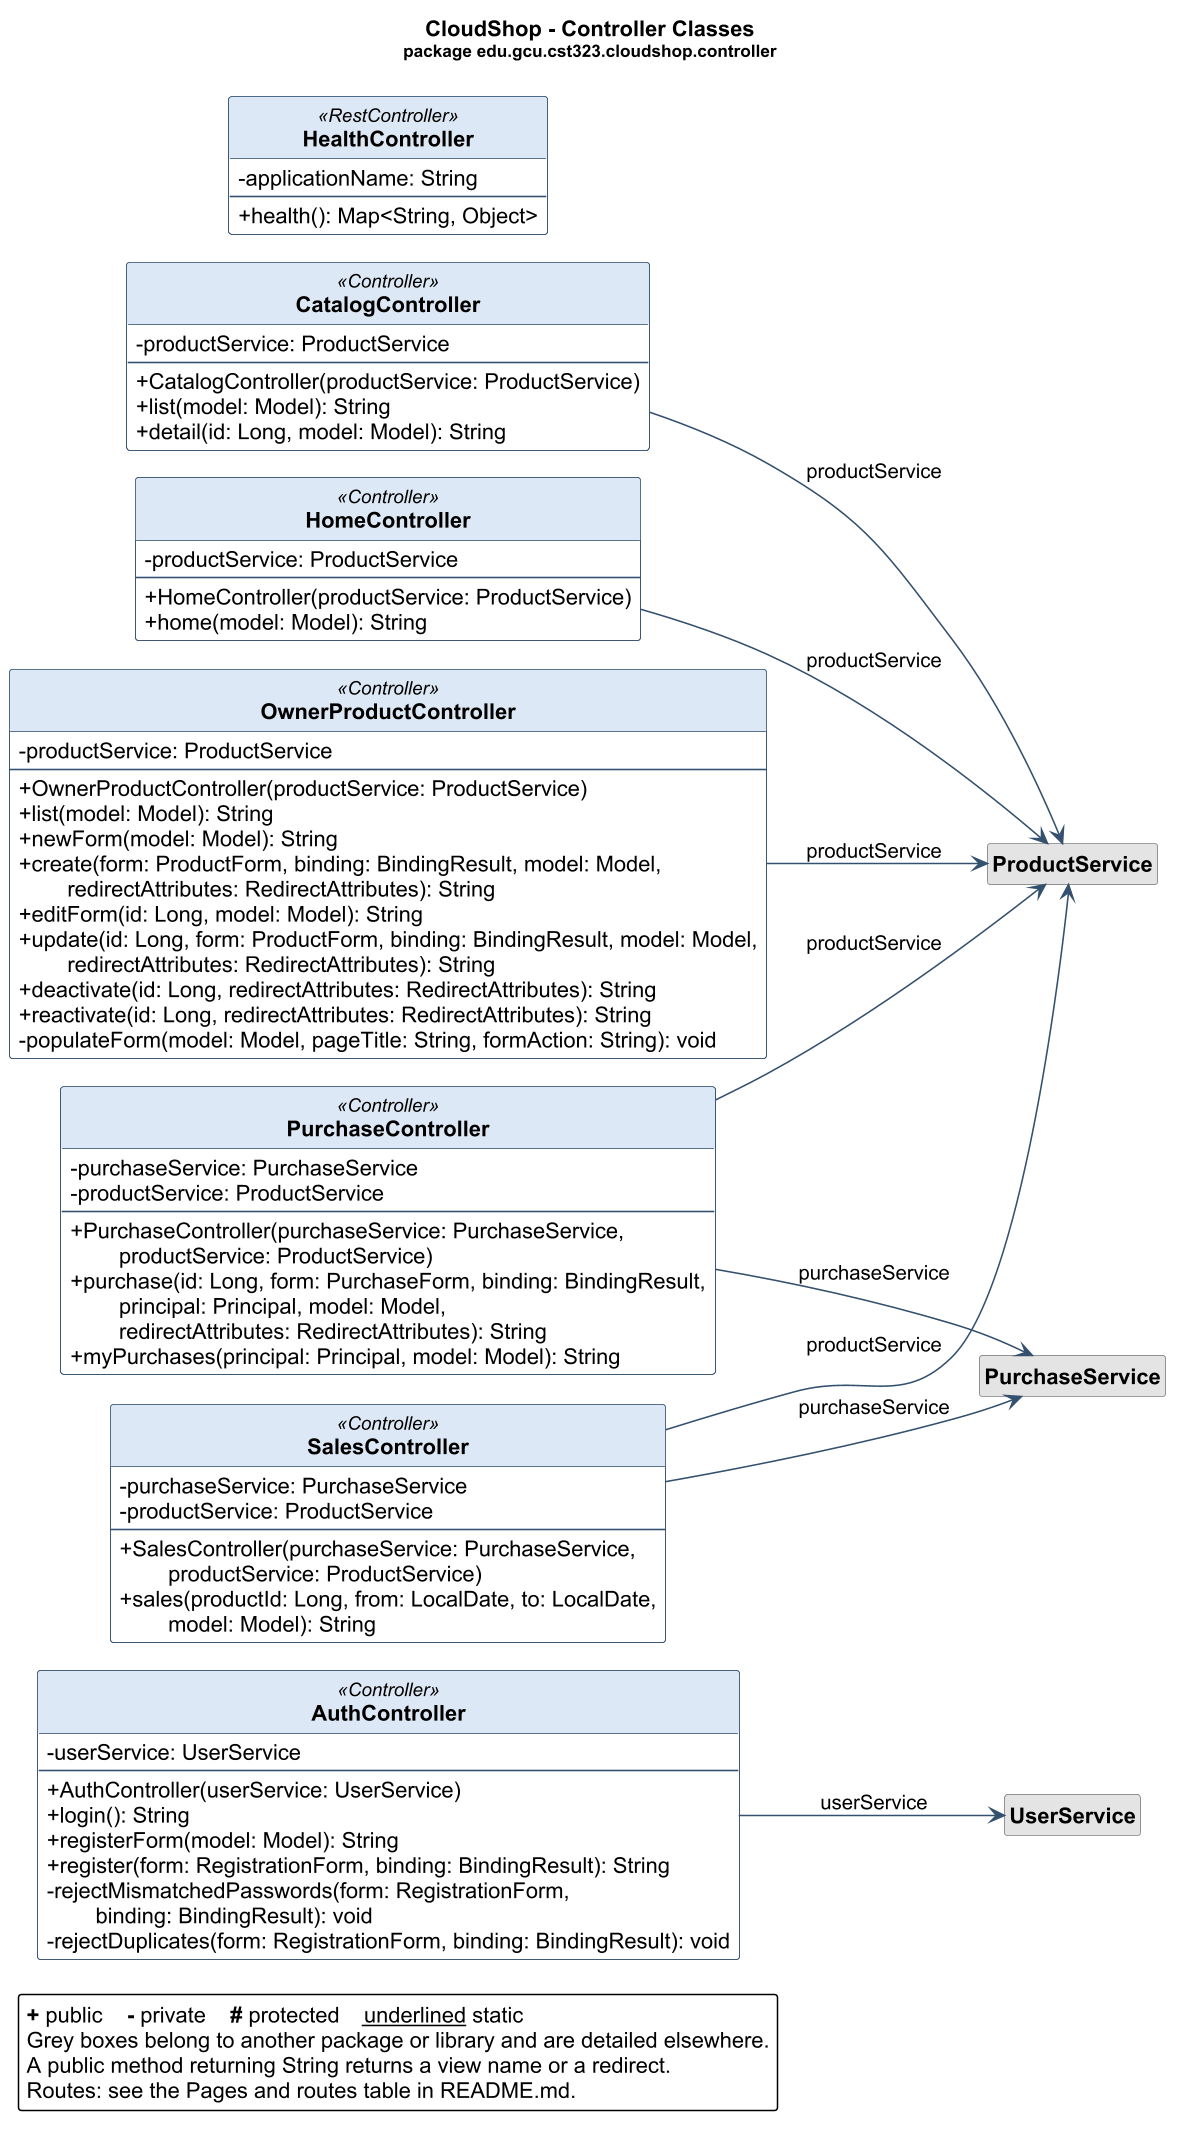
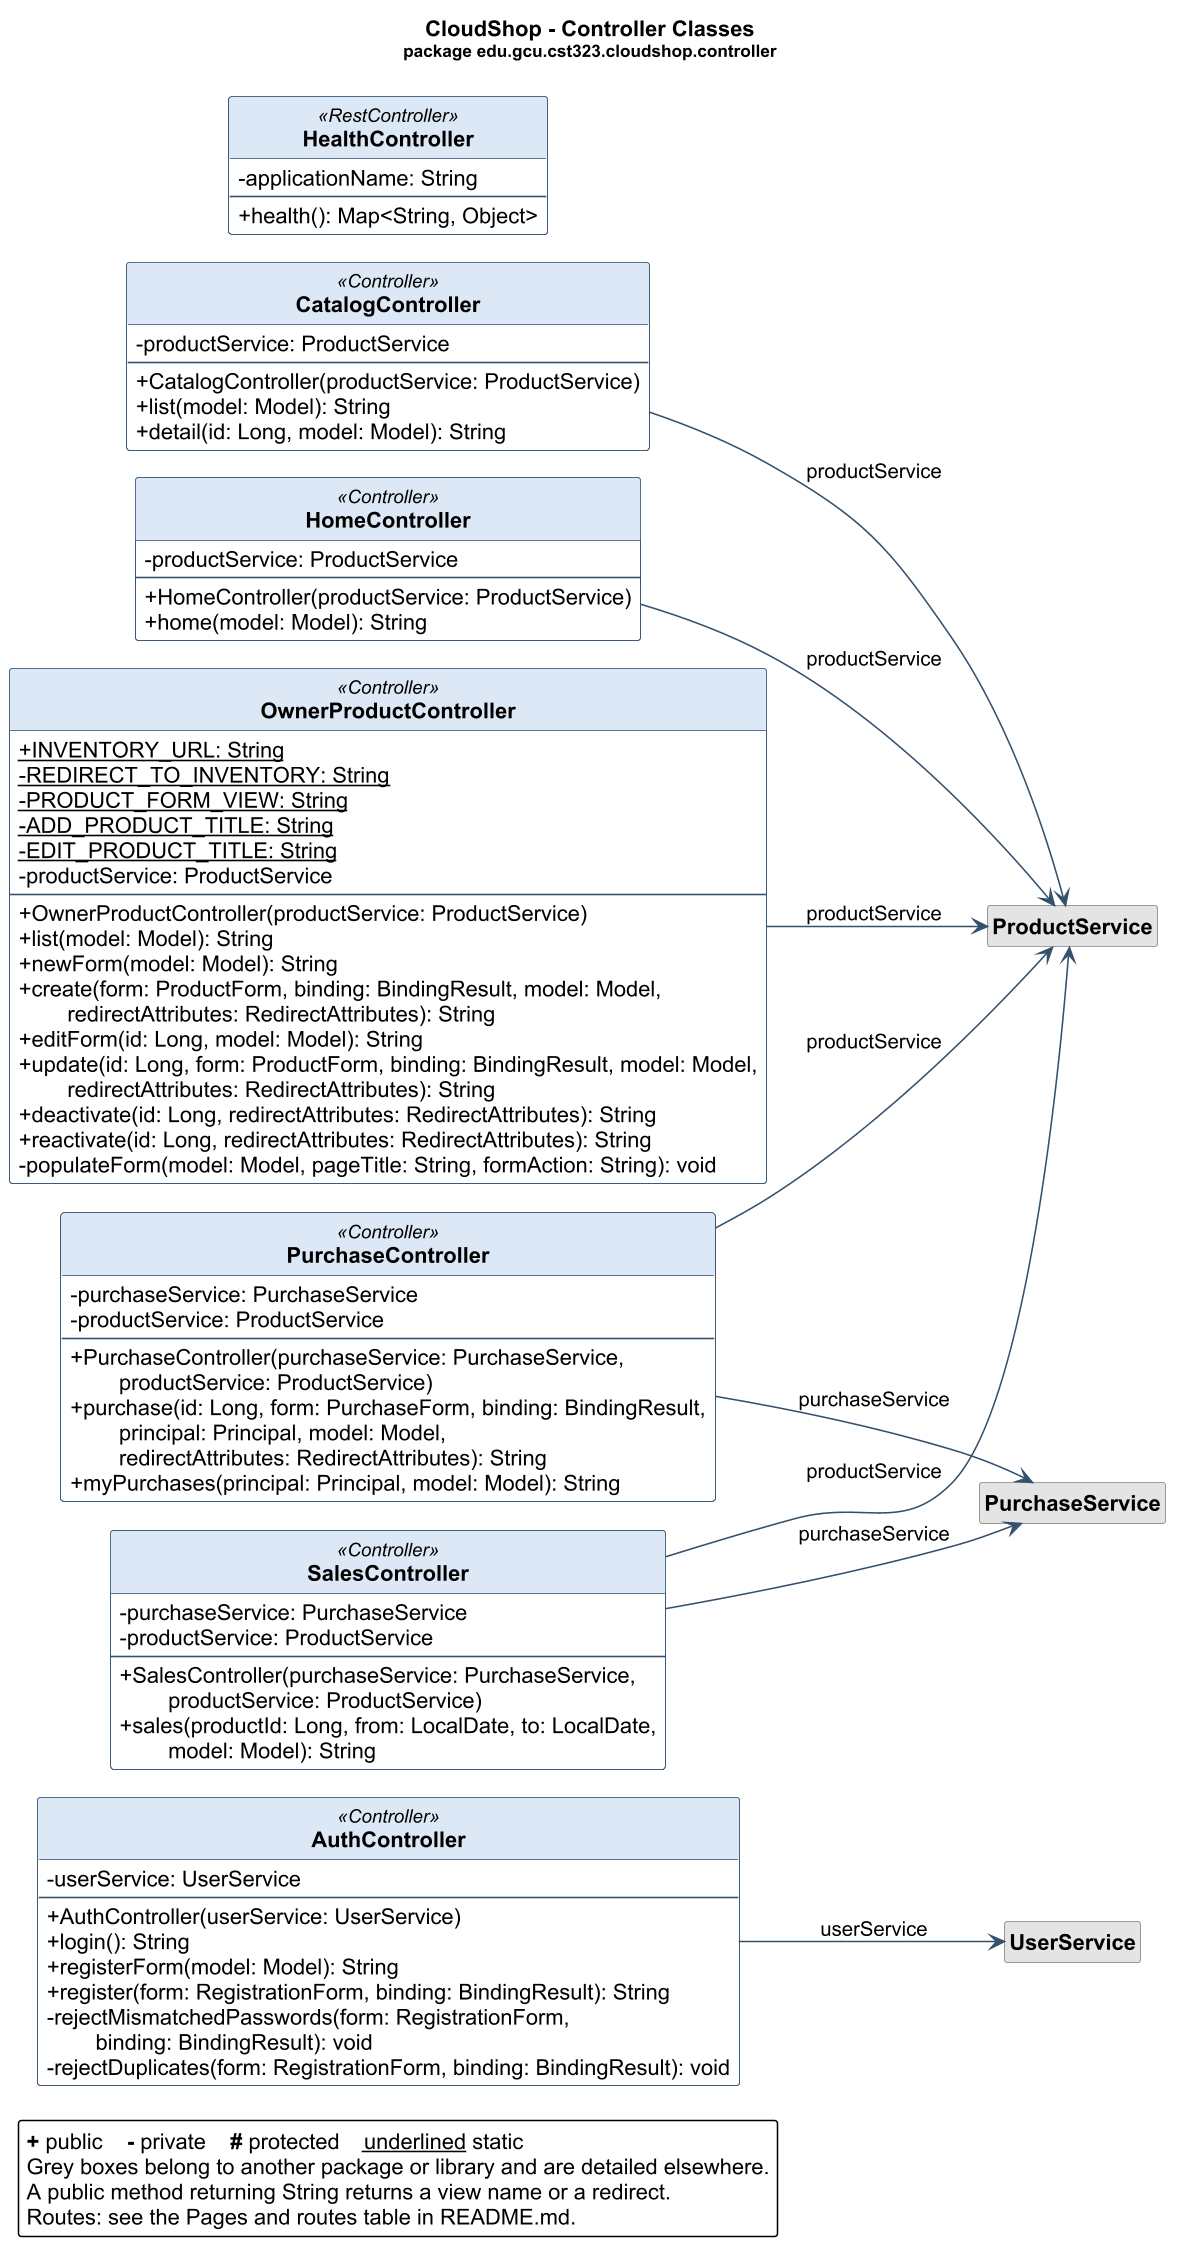
Regenerate the class diagrams for Milestone 5 and export them
Three diagrams changed with the refactoring: the model diagram shows the
column-length constants on Product and User, the controller diagram the
constants of OwnerProductController, and the service diagram no longer has
UserService.findByUsername. The repository and logging diagrams are
unchanged, and their Milestone 5 exports are byte-identical to Milestone
4's.

docs/design/milestone5 holds the five, about 1500 pixels wide. The
generator now skips package-info classes, which javac writes for the new
package-info.java files.

diff --git a/docs/diagrams/tools/UmlClassDiagrams.java b/docs/diagrams/tools/UmlClassDiagrams.java
@@ -128,8 +128,9 @@ public class UmlClassDiagrams {
         try (Stream<Path> files = Files.list(dir)) {
             for (Path file : files.sorted().toList()) {
                 String name = file.getFileName().toString();
-                // Skips anonymous and nested classes, which carry a $ in their file name.
-                if (name.endsWith(".class") && !name.contains("$")) {
+                // Skips anonymous and nested classes, which carry a $ in their file name,
+                // and package-info, which javac writes when a package has annotations.
+                if (name.endsWith(".class") && !name.contains("$") && !name.equals("package-info.class")) {
                     String className = BASE_PACKAGE + "." + pkg + "." + name.substring(0, name.length() - 6);
                     found.add(Class.forName(className, false, loader));
                 }
